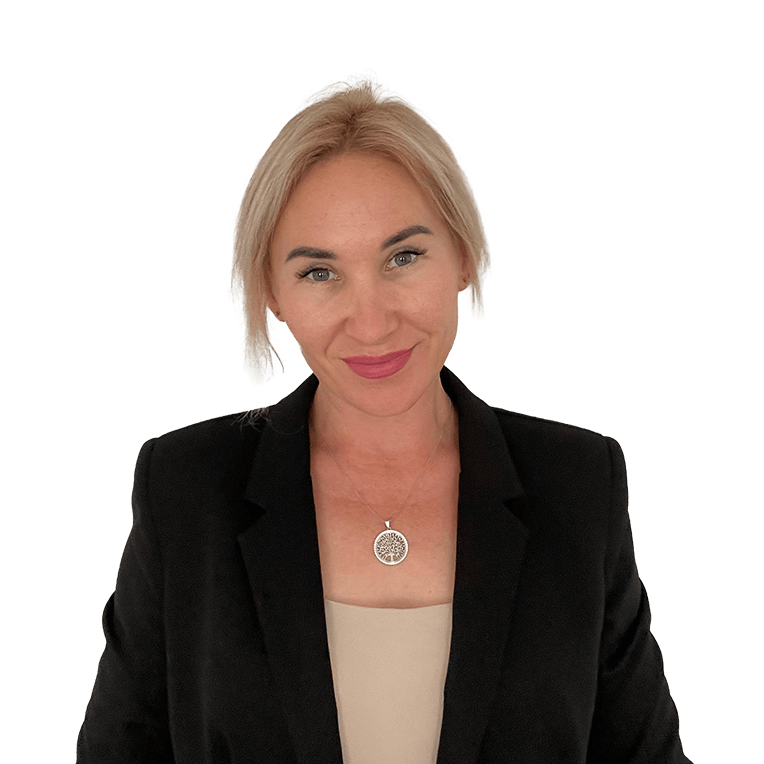
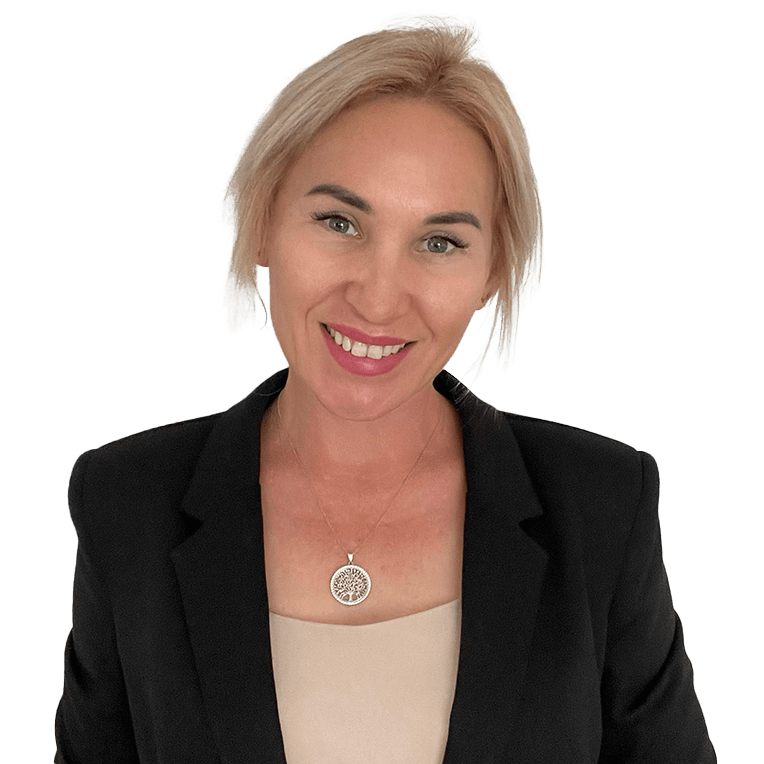
feat: Change photos on Hero & About

diff --git a/src/components/About.jsx b/src/components/About.jsx
@@ -10,40 +10,22 @@ const About = ({ width }) => {
   return (
     <section
       id="about"
-      className="relative my-[var(--mobile-y-margin)] flex w-full max-w-[var(--container-mobile)] scroll-mt-36 flex-col items-center justify-start gap-[var(--l)] px-[var(--s)]
-                tablet:my-[var(--tablet-y-margin)] tablet:max-w-[var(--container-tablet)] tablet:gap-[var(--2xl)] tablet:px-[var(--xl)]
-                desktop:my-[var(--desktop-y-margin)] desktop:max-w-[var(--container-desktop)] desktop:px-[var(--2xl)]"
+      className="relative my-[var(--mobile-y-margin)] flex w-full max-w-[var(--container-mobile)] scroll-mt-36 flex-col items-center justify-start gap-[var(--l)] px-[var(--s)] tablet:my-[var(--tablet-y-margin)] tablet:max-w-[var(--container-tablet)] tablet:gap-[var(--2xl)] tablet:px-[var(--xl)] desktop:my-[var(--desktop-y-margin)] desktop:max-w-[var(--container-desktop)] desktop:px-[var(--2xl)]"
     >
-      <h2
-        className="text-balance text-heading-s
-                      tablet:text-heading-m
-                      desktop:text-heading-l"
-      >
+      <h2 className="text-balance text-heading-s tablet:text-heading-m desktop:text-heading-l">
         Обо мне
       </h2>
-      <div
-        className="flex flex-col items-center gap-[var(--l)]
-                  desktop:flex-row desktop:items-start desktop:justify-between"
-      >
-        <article
-          className="relative -mt-4 flex items-center justify-start
-                    desktop:w-4/12"
-        >
+      <div className="flex flex-col items-center gap-[var(--l)] desktop:flex-row desktop:items-start desktop:justify-between">
+        <article className="relative -mt-4 flex items-center justify-start desktop:w-4/12">
           <AboutPhotoCard />
-          <div
-            className="absolute -left-[30px] bottom-[16px] flex size-12 animate-waving-badge-3 items-center justify-center rounded-full bg-secondary-25 p-3 shadow-[5px_5px_25px_0px_rgba(0,0,0,0.25)]
-                       tablet:-left-[40px] tablet:bottom-[56px] tablet:size-16"
-          >
+          <div className="absolute -left-[30px] bottom-[16px] z-10 flex size-12 animate-waving-badge-3 items-center justify-center rounded-full bg-secondary-25 p-3 shadow-[5px_5px_25px_0px_rgba(0,0,0,0.25)] tablet:-left-[40px] tablet:bottom-[56px] tablet:size-16">
             <img
               className="h-full"
               src={rocket}
               alt="Rocket Image"
             />
           </div>
-          <div
-            className="absolute left-[150px] top-[60px] flex size-12 animate-waving-badge-4 items-center justify-center rounded-full bg-secondary-15 p-2 shadow-[5px_5px_25px_0px_rgba(0,0,0,0.25)]
-                       tablet:left-[280px] tablet:top-[120px] tablet:size-16"
-          >
+          <div className="absolute left-[150px] top-[60px] flex size-12 animate-waving-badge-4 items-center justify-center rounded-full bg-secondary-15 p-2 shadow-[5px_5px_25px_0px_rgba(0,0,0,0.25)] tablet:left-[280px] tablet:top-[120px] tablet:size-16">
             <img
               className="h-full"
               src={firstPlace}
@@ -51,11 +33,7 @@ const About = ({ width }) => {
             />
           </div>
         </article>
-        <article
-          className="flex max-w-[var(--mobile-text-wrapper)] flex-col items-center justify-start gap-[var(--l)]
-                    tablet:max-w-[var(--tablet-text-wrapper)] tablet:gap-[var(--xl)]
-                    desktop:w-7/12 desktop:max-w-[var(--desktop-text-wrapper)] desktop:items-start desktop:gap-[var(--2xl)]"
-        >
+        <article className="flex max-w-[var(--mobile-text-wrapper)] flex-col items-center justify-start gap-[var(--l)] tablet:max-w-[var(--tablet-text-wrapper)] tablet:gap-[var(--xl)] desktop:w-7/12 desktop:max-w-[var(--desktop-text-wrapper)] desktop:items-start desktop:gap-[var(--2xl)]">
           <div className="flex flex-col items-start justify-start gap-[var(--m)]">
             <p className="p-fade-in animate-p-fade-in text-pretty">
               Меня зовут Алсу Каримова, и я рада приветствовать тебя на своём

diff --git a/src/components/HeroPhotoCard.jsx b/src/components/HeroPhotoCard.jsx
@@ -10,18 +10,11 @@ const HeroPhotoCard = () => {
         {/* Border */}
         <div className="absolute bottom-[10px] left-[3px] aspect-square w-[var(--img-size-mobile)] -rotate-[2.5deg] rounded-[var(--s)] border-2 border-[var(--neutral-90)] tablet:bottom-[20px] tablet:left-[10px] tablet:w-[var(--img-size-tablet)]" />
         {/* Mask */}
-        <div
-          className="absolute bottom-0 right-0 h-[210px] w-[var(--img-size-mobile)] rotate-[2.5deg] overflow-hidden rounded-[var(--s)]
-                     tablet:h-[380px] tablet:w-[var(--img-size-tablet)]"
-        >
+        <div className="absolute bottom-0 right-0 h-[210px] w-[var(--img-size-mobile)] rotate-[2.5deg] overflow-hidden rounded-[var(--s)] tablet:h-[380px] tablet:w-[var(--img-size-tablet)]">
           {/* Color */}
-          <div
-            className="absolute bottom-0 right-0 aspect-square w-[var(--img-size-mobile)] rounded-[var(--s)] bg-primary-50
-                          tablet:w-[var(--img-size-tablet)]"
-          />
+          <div className="absolute bottom-0 right-0 aspect-square w-[var(--img-size-mobile)] rounded-[var(--s)] bg-primary-50 tablet:w-[var(--img-size-tablet)]" />
           <img
-            className="group-hover:scale-140 absolute -bottom-[10px] left-[8px] z-10 -rotate-[2.5deg] scale-[1.8] transition-transform delay-150 duration-300 ease-in-out group-hover:-translate-y-2.5
-                       tablet:bottom-[0px] tablet:left-[16px]"
+            className="group-hover:scale-140 absolute -bottom-[8px] left-[8px] z-10 -rotate-[5deg] scale-[1.5] transition-transform delay-150 duration-300 ease-in-out group-hover:-translate-y-2.5 tablet:bottom-[0px] tablet:left-[16px]"
             src={alsuHero}
             srcSet={`
                      ${alsuHero} 577w,

diff --git a/src/components/AboutPhotoCard.jsx b/src/components/AboutPhotoCard.jsx
@@ -6,18 +6,11 @@ const AboutPhotoCard = () => {
     // Container
     <div className="group relative w-[170px] tablet:w-[300px]">
       {/* Inner Container */}
-      <div
-        className="clip-path-about tablet:clip-path-about-tablet relative flex h-[210px] items-end overflow-hidden transition-transform duration-300 ease-in-out hover:scale-[1.1]
-                      tablet:h-[365px]"
-      >
+      <div className="relative flex h-[210px] items-end overflow-hidden rounded-[var(--s)] transition-transform duration-300 ease-in-out hover:scale-[1.1] tablet:h-[365px]">
         {/* Color */}
-        <div
-          className="absolute bottom-0 left-0 size-[var(--img-size-mobile)] rounded-[var(--s)] bg-primary-40
-                      tablet:size-[var(--img-size-tablet)]"
-        />
+        <div className="absolute bottom-0 left-0 size-[var(--img-size-mobile)] rounded-[var(--s)] bg-primary-40 tablet:size-[var(--img-size-tablet)]" />
         <img
-          className="group-hover:scale-140 absolute -bottom-[32px] -left-[8px] z-10 scale-[1.1] transition-transform delay-150 duration-300 ease-in-out group-hover:-translate-y-2.5
-                     tablet:-bottom-[40px] tablet:-left-[16px] tablet:scale-[1]"
+          className="group-hover:scale-140 absolute -bottom-[4px] left-[8px] z-10 scale-[1.5] transition-transform delay-150 duration-300 ease-in-out group-hover:-translate-y-2.5 tablet:-bottom-[8px] tablet:left-[16px] tablet:scale-[1.5]"
           src={alsuAbout}
           srcSet={`
                    ${alsuAbout} 577w,
